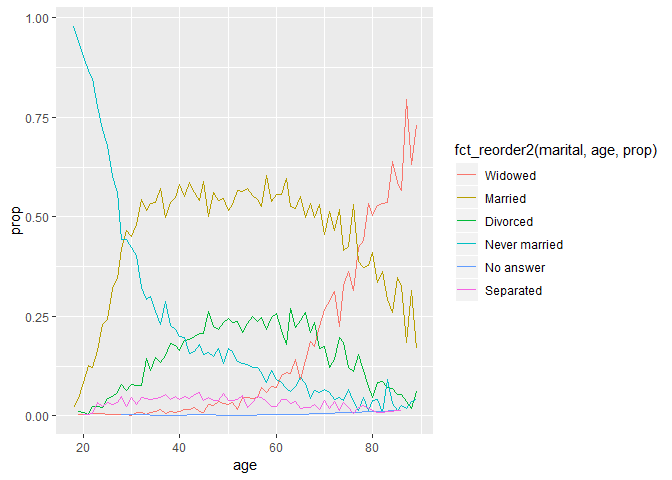
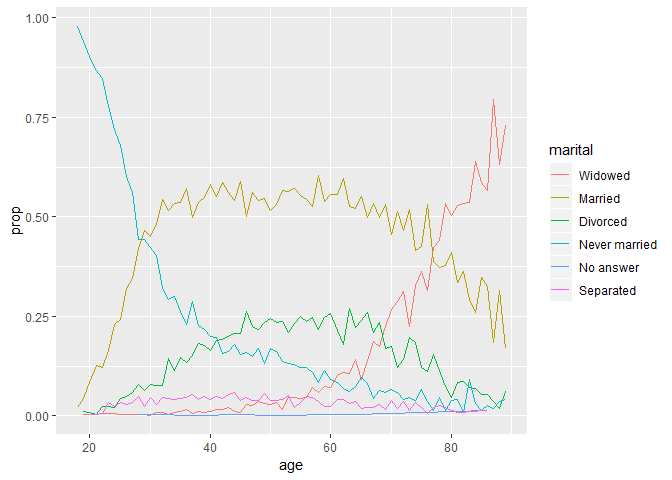
update 15 Factors

diff --git a/docs/R for Data Science/15-Factors.md b/docs/R for Data Science/15-Factors.md
@@ -296,7 +296,7 @@ by_age <- gss_cat %>%
   group_by(age) %>% 
   mutate(prop = n / sum(n))
 
-par(mfrow = c(2, 1))
+layout(t(1:2))
 ggplot(by_age, aes(age, prop, color = marital)) + 
   geom_line(na.rm = TRUE)
 ```
@@ -305,9 +305,12 @@ ggplot(by_age, aes(age, prop, color = marital)) +
 
 ``` r
 ggplot(by_age, aes(age, prop, color = fct_reorder2(marital, age, prop))) +
-  geom_line(na.rm = TRUE)
+  geom_line(na.rm = TRUE) +
+  labs(color = "marital")
 ```
 
 ![](15-Factors_files/figure-markdown_github/unnamed-chunk-24-2.png)
 
-왼쪽의 이러면 legend에 있는대로 맨 위의 No answer 선을 찾아볼까? 어... 맨 위에 깔려있어서 한 눈에 못 알아봤네. 이럴 때 `fct_reorder()`를 써서, "가장 ~" 이걸 하면 보기 편해진다는 거다.
+왼쪽의 이러면 legend에 있는대로 맨 위의 No answer 선을 찾아볼까? 어... 맨 위에 깔려있어서 한 눈에 못 알아봤네. 이럴 때 `fct_reorder()`를 쓰면 보기 편해진다는 거다. 오른쪽과 같이.
+
+마지막으로, bar plot에 대해서도, `fct_infreq()`를 사용해 increasing levels로 정렬할 수도 있다.
